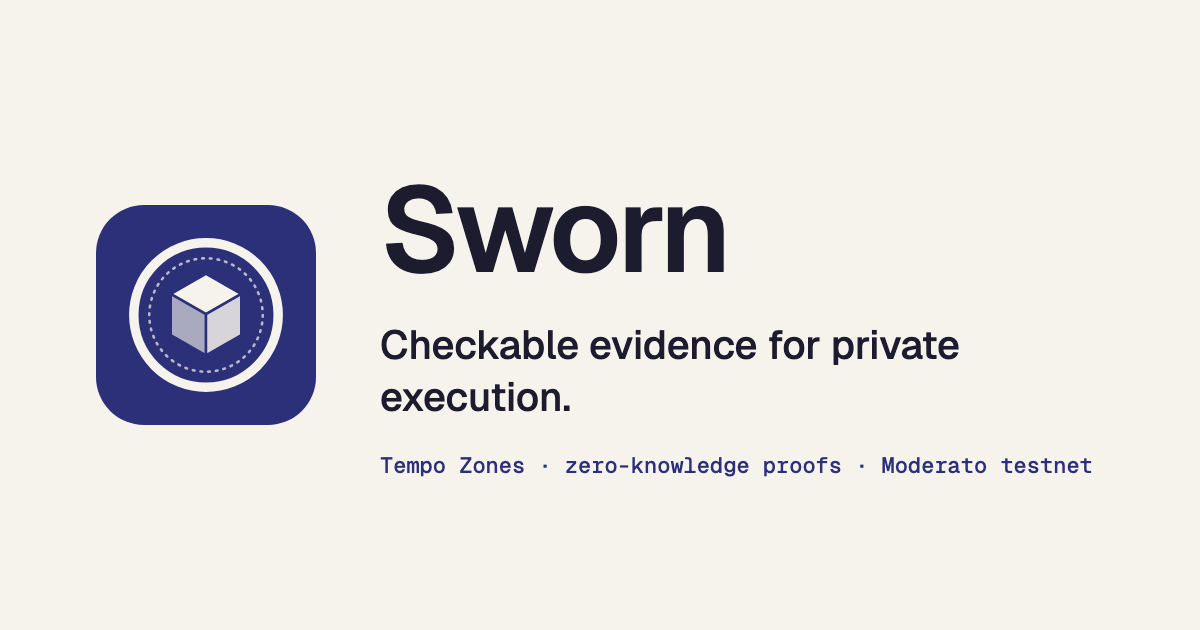
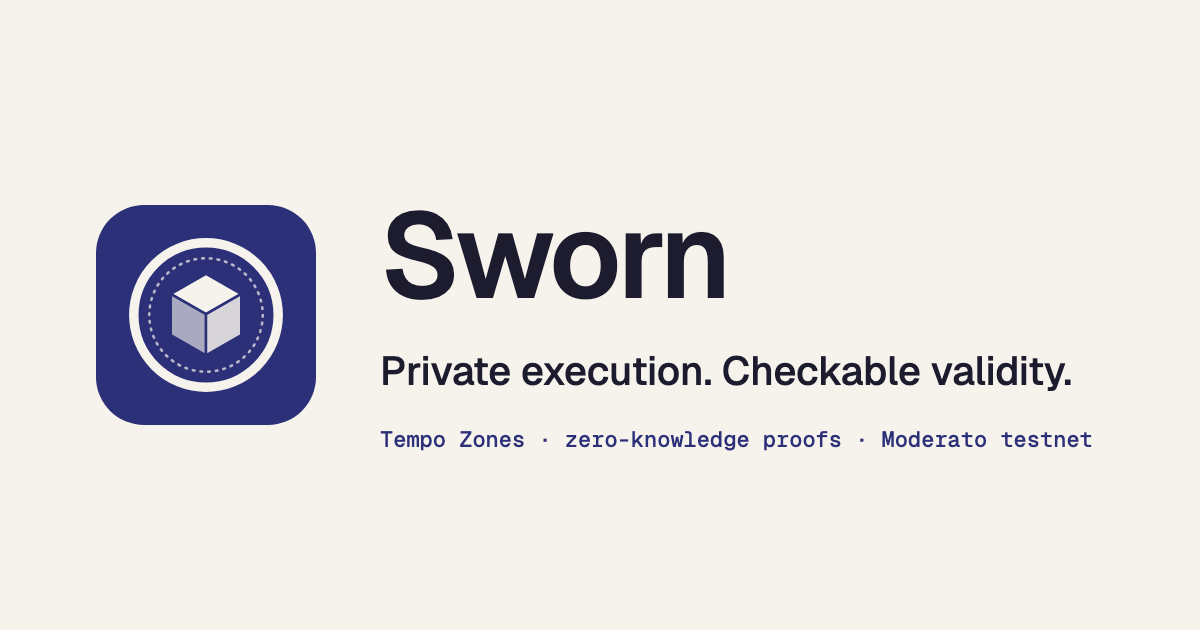
Full-review fixes: page leads with "Private execution. Checkable validity."; precise wording everywhere
Page: h1, title, og/twitter tags and the OG card use the message; the own-Zone
heading says the portal settles and so lets a withdrawal be paid; the fixture is
"verified on Moderato, not connected to a portal" (the attest was a transaction);
the stub comparison notes Tempo's Zones rely on a TEE; footer: exact prize names
and "no data-availability, liveness or censorship-resistance guarantee"; drops the
unexplained factory-admin line; removes unused slashing-era UI (Timeline,
ProofSection). README: "Sworn runs Tempo's own Zone verifier in SP1"; demo 1:22.
scripts/zone-attest.sh accepts a fixture path relative to where it is run. Spec 003:
claim template filled, "fixture batches". Interview: forged batch 10-07, Q8 buyer is
a Zone business, Q12 prizes, 11-31 min, Q20 narrower, Q25 pre-existing work.
Outreach: forged-batch link; users see their own.

diff --git a/site/src/ui/sections.tsx b/site/src/ui/sections.tsx
@@ -61,8 +61,8 @@ export function Hero() {
   return (
     <section className="hero">
       <div className="hero-copy">
-        <p className="eyebrow">Sworn · for Tempo Zones · Private execution, checkable validity</p>
-        <h1>Make private Zone execution checkable.</h1>
+        <p className="eyebrow">Sworn · for Tempo Zones</p>
+        <h1>Private execution. Checkable validity.</h1>
         <p className="lede">
           Tempo Zones are private ledgers: only the operator sees every transaction. Sworn turns an operator-supplied
           batch into evidence anyone can verify on chain—without the private ledger or customer transactions.
@@ -232,7 +232,7 @@ export function DataFlow() {
           Zcash proves a shielded transaction is valid; Sworn proves a Zone batch executed correctly. Sworn hides nothing
           from the Zone&apos;s operator, who still sees every transaction.</p>
         <p className="df-note">This diagram shows the fixture batch from Tempo&apos;s integration tests (dev chain 1337), verified
-          read-only on Moderato. The own-Zone run above is separate: its portal calls its own instance of the verifier before it
+          on Moderato by a standalone verifier, not connected to a portal. The own-Zone run above is separate: its portal calls its own instance of the verifier before it
           settles a batch, and our sequencer pays withdrawals afterwards. Tempo&apos;s own Zones are unchanged; spec 004 is a
           proposal.</p>
       </div>
@@ -259,8 +259,7 @@ export function OperationsTest() {
       <p className="note">
         <b>Market, honestly:</b> it grows with Zones × batches × upgrades, and only if Zones are adopted; no TAM is claimed.
         Later, Sworn could sit beside Tempo&apos;s TEE as an independent check (spec 004, a proposal).<br />
-        <b>What is true today:</b> the three Zones Tempo&apos;s factory created on Moderato share one admin; Sworn has no
-        customer, revenue, design partner or payer agreement. The commercial thesis becomes credible only after this repeat
+        <b>What is true today:</b> Sworn has no customer, revenue, design partner or payer agreement. The commercial thesis becomes credible only after this repeat
         test.
       </p>
     </section>
@@ -275,6 +274,7 @@ export function Footer() {
         <li>Unaudited</li>
         <li>Fixture batches from Tempo's integration tests (dev chain)</li>
         <li>Live settlement only on our own Zone (one operator), not Tempo's Zones</li>
+        <li>Proof gates settlement; no data-availability, liveness or censorship-resistance guarantee</li>
         <li>No customers, revenue or mainnet</li>
       </ul>
       <ul className="links">
@@ -315,8 +315,9 @@ export function Footer() {
       </ul>
       <p className="fine team">
         Built by Hiroyuki Saito (<a href="https://github.com/psyto" target="_blank" rel="noreferrer">@psyto</a>): Rust on
-        Tempo&apos;s stack (Reth, Revm); author of <a href="https://fabrknt.com/dojo" target="_blank" rel="noreferrer">Fabrknt Dojo</a> (21 courses); Uniswap Foundation sponsor prize, ETHGlobal Tokyo
-        2026; 3rd place, Superteam Japan × NTT DOCOMO R&amp;D side track, Colosseum Cypherpunk 2025; 15 years building banking
+        Tempo&apos;s stack (Reth, Revm); author of <a href="https://fabrknt.com/dojo" target="_blank" rel="noreferrer">Fabrknt Dojo</a> (21 courses); Uniswap Foundation sponsor prize (Best
+        Uniswap Stack Contribution, 3rd place), ETHGlobal Tokyo 2026; 3rd place, Superteam Japan × NTT DOCOMO R&amp;D side track,
+        Colosseum&apos;s Solana Cypherpunk Hackathon 2025; 15 years building banking
         systems in Japan.
       </p>
       <p className="fine">

diff --git a/site/src/ui/ProofDiagram.tsx b/site/src/ui/ProofDiagram.tsx
@@ -1,7 +1,3 @@
-import type { Loadable } from "../chain/loadable.ts";
-import type { ProofPins } from "../chain/timeline.ts";
-import { AddrLink, ErrorBox } from "./common.tsx";
-
 export interface PipeNode {
   title: string;
   sub: string[];
@@ -110,67 +106,5 @@ export function Pipeline(p: PipeProps) {
       <Wide {...p} />
       <Tall {...p} />
     </>
-  );
-}
-
-const SLASH_NODES: PipeNode[] = [
-  { title: "Tempo block N", sub: ["state + block hash", "MPT-verified"], tempo: true },
-  { title: "tempo-revm", sub: ["Tempo's own EVM", "re-runs the transfer"] },
-  { title: "SP1 zkVM", sub: ["proves that run", "RISC-V execution"] },
-  { title: "Groth16", sub: ["succinct proof", "made locally"] },
-  { title: "Sworn.sol", sub: ["on Tempo", "verifyProof → slash"], tempo: true },
-];
-
-export function ProofSection({ pins, onRetry }: { pins: Loadable<ProofPins>; onRetry: () => void }) {
-  return (
-    <section className="section" aria-labelledby="how">
-      <div className="section-head">
-        <p className="eyebrow">The engine</p>
-        <h2 id="how">How the slash proof is made</h2>
-        <p className="lede">
-          The same recipe as the Zone proof above, with Tempo's EVM in place of the Zone verifier: the challenger re-runs the
-          exact transfer with tempo-revm over state proven against block N's header, inside SP1, and Sworn.sol checks the
-          Groth16 proof against that block's hash on Tempo.
-        </p>
-      </div>
-      <figure className="figure">
-        <Pipeline
-          id="dg-slash"
-          nodes={SLASH_NODES}
-          label="Tempo block N, re-executed by tempo-revm inside the SP1 zkVM, wrapped as a Groth16 proof, verified by Sworn.sol on Tempo against block N's hash."
-          back={{ wide: "blockhash(N) == the question's block hash, checked on Tempo", tall: "blockhash(N) checked on Tempo" }}
-        />
-        <figcaption>
-          Heavy edges are on Tempo; the middle three run on the challenger's machine (the three Moderato proofs took about 7 to 9
-          minutes, per the run logs).
-        </figcaption>
-      </figure>
-      <div className="pins" aria-live="polite">
-        <p className="eyebrow">Pinned in Sworn.sol, read from chain</p>
-        {pins.status === "ok" ? (
-          <dl className="facts">
-            <dt>SP1_VERIFIER</dt>
-            <dd>
-              <AddrLink address={pins.value.verifier} label={pins.value.verifier} /> · {pins.value.verifierVersion}
-            </dd>
-            <dt>GUEST_VKEY</dt>
-            <dd className="mono">{pins.value.guestVkey}</dd>
-            <dt>GUEST_VERSION</dt>
-            <dd className="mono">
-              {pins.value.guestVersion}
-              {pins.value.guestVersionIsV1 && <span className="ok"> = keccak256("sworn-guest-v1") ✓</span>}
-            </dd>
-            <dt>MAX_AGE</dt>
-            <dd className="mono">{pins.value.maxAge.toString()} blocks (the answer must be about a block whose hash Tempo still serves)</dd>
-          </dl>
-        ) : pins.status === "error" ? (
-          <ErrorBox error={pins.error} onRetry={onRetry} />
-        ) : (
-          <p className="loading">
-            <span className="pulse" aria-hidden /> Reading the verifier and vkey from Sworn…
-          </p>
-        )}
-      </div>
-    </section>
   );
 }

diff --git a/site/src/ui/Zone.tsx b/site/src/ui/Zone.tsx
@@ -169,7 +169,7 @@ export function ZoneSection({ attest, also, check, onRetry, onVerify }: Props) {
         <div className="ops-crumb"><span>Proof evidence</span><span>Zone blocks 5–6</span><b>Read live from chain</b></div>
       <div className="section-head">
         <p className="eyebrow">Technical evidence</p>
-        <h2 id="zone-h">A fixture batch with a withdrawal (dev chain 1337), verified read-only on Moderato</h2>
+        <h2 id="zone-h">A fixture batch with a withdrawal (dev chain 1337), verified on Moderato</h2>
         <p className="lede">
           Tempo's own Zone batch verifier ran inside SP1 on a batch with {BATCH_CONTENTS.withdrawals} withdrawal and{" "}
           {BATCH_CONTENTS.userTransactions} user transactions, taken from Tempo's zones integration tests on a dev chain (1337),
@@ -253,7 +253,7 @@ export function ZoneSection({ attest, also, check, onRetry, onVerify }: Props) {
                         <a href={STUB_SRC} target="_blank" rel="noreferrer">
                           source
                         </a>
-                        ). Sworn demonstrates the missing ZK check.
+                        ). Tempo&apos;s Zone design relies on a TEE (Nitro) attestation instead; Sworn shows what an independent ZK check adds.
                       </>
                     ) : (
                       <>This call no longer returns true: Moderato's Zone verifier has changed since this page was written.</>
@@ -293,7 +293,7 @@ export function ZoneSection({ attest, also, check, onRetry, onVerify }: Props) {
             <li>Tempo Zones' own batch verifier, executed inside SP1.</li>
             <li>
               A fixture batch from Tempo&apos;s integration tests with {BATCH_CONTENTS.withdrawals} withdrawal and{" "}
-              {BATCH_CONTENTS.userTransactions} user transactions, proven, then verified read-only on Moderato by a standalone contract. It accepts the real proof and rejects a mutated input.
+              {BATCH_CONTENTS.userTransactions} user transactions, proven, then verified on Moderato by a standalone contract (not connected to a portal). It accepts the real proof and rejects a mutated input.
             </li>
             <li>A digest bound to the same batch fields Tempo&apos;s TEE (Nitro) attestation commits, plus the destination chain and the exact genesis artifact.</li>
             <li>

diff --git a/site/index.html b/site/index.html
@@ -5,9 +5,12 @@
     <meta name="viewport" content="width=device-width, initial-scale=1.0" />
     <meta name="color-scheme" content="light dark" />
     <meta name="description" content="Sworn is for Tempo Zones: only the operator sees every transaction. Sworn makes that private execution checkable on chain, without exposing customer transactions." />
-    <title>Sworn — make private Tempo Zone execution checkable</title>
+    <title>Sworn — private execution, checkable validity</title>
     <link rel="icon" type="image/svg+xml" href="./favicon.svg" />
-    <meta property="og:title" content="Sworn — make private Tempo Zone execution checkable" />
+    <meta property="og:title" content="Sworn — private execution, checkable validity" />
+    <meta property="og:description" content="Sworn is for Tempo Zones: Tempo's own Zone verifier, run in SP1, proves a private batch executed correctly — checkable on chain without publishing transactions." />
+    <meta name="twitter:title" content="Sworn — private execution, checkable validity" />
+    <meta name="twitter:image" content="https://psyto.github.io/sworn/card.png" />
     <meta property="og:image" content="https://psyto.github.io/sworn/card.png" />
     <meta property="og:url" content="https://psyto.github.io/sworn/" />
     <meta name="twitter:card" content="summary_large_image" />

diff --git a/site/src/ui/OwnZone.tsx b/site/src/ui/OwnZone.tsx
@@ -25,7 +25,7 @@ export function OwnZoneSection({ ownZone, check, onRetry, onVerify }: Props) {
     <section className="section" id="own-zone" aria-labelledby="own-zone-h">
       <div className="section-head">
         <p className="eyebrow">Our own Zone on Moderato · {OWN_ZONE.date}</p>
-        <h2 id="own-zone-h">A portal that pays a withdrawal only after Sworn's proof passes</h2>
+        <h2 id="own-zone-h">A portal that settles a batch, and so lets a withdrawal be paid, only after Sworn's proof passes</h2>
         <p className="lede">
           We ran our own Zone (zone {OWN_ZONE.zoneId}) on Moderato. Its portal calls <code>SwornZoneVerifier</code> in every{" "}
           <code>submitBatch</code>, so a batch settles, and its withdrawals can be paid, only after the Groth16 proof verifies.

diff --git a/_submission/brand/card.html b/_submission/brand/card.html
@@ -8,5 +8,5 @@ h1{font-size:120px;font-weight:600;margin:0;letter-spacing:-3px}
 p{font-size:40px;margin:12px 0 28px;font-weight:500}
 small{font-family:"Geist Mono",monospace;font-size:22px;color:#2b3078}
 </style></head><body>
-<div class="card"><img src="mark.svg"><div><h1>Sworn</h1><p>Checkable evidence for private execution.</p><small>Tempo Zones · zero-knowledge proofs · Moderato testnet</small></div></div>
+<div class="card"><img src="mark.svg"><div><h1>Sworn</h1><p>Private execution. Checkable validity.</p><small>Tempo Zones · zero-knowledge proofs · Moderato testnet</small></div></div>
 </body></html>

diff --git a/_submission/INTERVIEW.md b/_submission/INTERVIEW.md
@@ -39,7 +39,7 @@ can't get a Tempo-run Zone's batch: only the operator holds the witness.
 On our own Zone, yes in the narrow sense: its portal settles a batch, and queues its withdrawals, only after the
 proof verifies. The proof is a necessary condition, not a guarantee: our sequencer then calls `processWithdrawals`,
 and could also withhold it. We also showed the rejection side: our own sequencer, with a valid signature, submitted a
-forged batch replaying a real proof, and it reverted on the proof (tx `0x3a15…167d`, state unchanged). We ran that on Moderato on 2026-10-06. On Tempo's Zones, no: their verifier is fixed by Tempo's
+forged batch replaying a real proof, and it reverted on the proof (tx `0x3a15…167d`, state unchanged). We ran that on Moderato on 2026-10-07. On Tempo's Zones, no: their verifier is fixed by Tempo's
 factory, so it stays evidence there. Spec 004 is the design for Tempo's side.
 - *If pressed:* one operator, whose key also decrypts deposits; withdrawals wait for the proof but are not
   censorship-resistant (the operator must prove and process them); callback withdrawals bounce.
@@ -67,8 +67,9 @@ the portal recorded); spec 004 would make it automatic there.
 - Not validated: no customer, no price agreed.
 
 **8. There is one Zone operator on Moderato. Where is the market?**
-There is no demonstrated market today, and we say that. The immediate buyer hypothesis is either a Zone team
-with a reviewer requirement or Tempo itself (proofs in settlement, spec 004). A design-partner conversation is the
+There is no demonstrated market today, and we say that. The immediate buyer hypothesis is a Zone business
+whose reviewer cannot reconstruct the private witness. Tempo itself (an independent check beside its TEE, spec 004)
+is a later proposal, not the first buyer. A design-partner conversation is the
 next falsifiable test.
 
 **9. Tempo chose a TEE (Nitro). Why would anyone need ZK?**
@@ -94,7 +95,9 @@ next falsifiable test.
 
 **12. Why you?**
 - Tempo is built on Reth and Revm. I work on that stack and teach it (Fabrknt Dojo, fabrknt.com/dojo: 21 source-grounded courses on Rust, Reth, Revm and Alloy).
-- My last project took a Uniswap Foundation prize at ETHGlobal Tokyo.
+- My last project, Reckn, took a Uniswap Foundation sponsor prize (Best Uniswap Stack Contribution, 3rd place) at
+  ETHGlobal Tokyo 2026; I also placed 3rd in the Superteam Japan × NTT DOCOMO R&D side track of Colosseum's Solana
+  Cypherpunk Hackathon (2025). Fabrknt Dojo has 21 courses and 234 lessons.
 - Fifteen years building banking systems: I know what auditors ask an operator for.
 
 **13. Solo founder. Can you run an operations business?**
@@ -141,7 +144,7 @@ Introductions to teams building Zones or private payment ledgers on Tempo, and t
 - For Tempo's Zones, the evidence product is off the settlement path, so its speed never delays their settlement.
   It only sets when the evidence reaches the auditor.
 - On our own Zone, the proof *is* on the path, and it does delay settlement: in the live run each batch waited
-  11–32 minutes for its proof (payout 58.5 minutes after the anchor). That is why the Zone was stopped after
+  11–31 minutes for its proof (payout 58.5 minutes after the anchor). That is why the Zone was stopped after
   the demo: this prover cannot keep up with a continuously running Zone.
 - In the settlement design (spec 004), the TEE settles at once and ZK only gates the payout of withdrawals.
   Deposits and Zone execution never wait for it.
@@ -154,7 +157,7 @@ Introductions to teams building Zones or private payment ledgers on Tempo, and t
 - Zcash proves each shielded transaction is valid and hides it from everyone. Sworn proves a Zone batch was
   executed correctly by Tempo's own Zone code; it shields nothing from the operator, who still sees every
   transaction. Zones are private from the public, not from their sequencers.
-- So: Zcash-style verifiability for an operator-run private ledger, not Zcash-level privacy.
+- So the shared part is only "verify without revealing"; Sworn is not Zcash-level privacy.
 
 **21. How is a Zone different from Solana's Contra or a Lightning channel?**
 - Contra is the closer analogy: operator-run private execution backed by public escrow (Contra holds SPL tokens
@@ -178,6 +181,12 @@ Introductions to teams building Zones or private payment ledgers on Tempo, and t
 **24. "Only the operator sees every transaction": isn't it the sequencers?**
 - Yes: a Zone is run by its operator's sequencer set (a leader and followers). "The operator" in the pitch means
   that set. Account holders see only their own activity (RPC-level authentication); the public sees none.
+
+**25. What existed before the hackathon?**
+- The repo started inside the window (2026-10-03). It vendors Succinct's SP1 verifier contracts (v6.1.0,
+  unmodified) and fetches and patches Tempo and Tempo Zones at pinned commits; none of that is my code.
+- The design discipline (no owner, no admin, a build check that fails if one appears) comes from my earlier
+  project Reckn; no Reckn code is used. All of this is in the README and should be in the form's disclosure.
 
 ## Numbers to have ready
 

diff --git a/video/README.md b/video/README.md
@@ -1,6 +1,6 @@
 # CWF videos — pitch (≤ 2 min) and demo (≤ 3 min)
 
-The submission videos are **Pitch D** (`PITCH-D.md`, ≤ 2:00 after the voice edit; the silent cut is 123 s) and **Demo D** (`DEMO-D.md`, 1:34). The scripts are
+The submission videos are **Pitch D** (`PITCH-D.md`, ≤ 2:00 after the voice edit; the silent cut is 123 s) and **Demo D** (`DEMO-D.md`, 1:22 narrated; the silent cut is 94 s). The scripts are
 the only source of narration; each ends with a claims → source table, and every figure on screen is **read at
 record time** (missing or changed source → the recorder throws). Silent 1920×1080 output, scene lengths =
 words ÷ 2.2 words/s rounded up to 0.5 s. Look: `slides.css`, Geist / Geist Mono (the recorder refuses a
@@ -23,7 +23,7 @@ deployments against Moderato (bytecode, every receipt, the 0.5 pathUSD payout, t
 README statements it relies on, Tempo's `Cargo.toml`, Fabrknt Dojo, the ETHGlobal showcase and Superteam's winner
 record.
 
-**Demo D** (nine scenes, 94 s) keeps the two results apart: a real local proof job for Tempo's
+**Demo D** (nine scenes, 94 s silent; 1:22 narrated) keeps the two results apart: a real local proof job for Tempo's
 integration-test fixture (dev chain 1337, nothing sent; a labelled cut from its start to its verified result),
 what stays private, the fixture attest on Tempo's explorer and a live re-verify (true / `InvalidProof()`), then
 a separate-run card, our own Zone's settlement and payout, the forged batch's failed trace, and the reproduction

diff --git a/docs/specs/003-zone-verifier.md b/docs/specs/003-zone-verifier.md
@@ -153,7 +153,7 @@ A native host computes the same public values with the same Rust code (shared mo
 ## 7. What may be claimed afterwards (and what may not)
 
 - **May:** "Tempo's own Zone batch verifier runs inside a zero-knowledge VM, and a contract on Tempo's
-  Moderato testnet verified that proof against the `IVerifier` inputs (tx …)."
+  Moderato testnet verified that proof against the `IVerifier` inputs (tx `0xa630…f770`)."
 - **May (after the own-Zone live run, 2026-10-06/07):** "On our own Zone on Moderato (one operator, not a
   Tempo-created Zone), the portal settled three batches only after this verifier accepted their proofs; our
   sequencer then paid a withdrawal; a forged sequencer-signed batch was rejected on the proof." The proof is a
@@ -161,7 +161,7 @@ A native host computes the same public values with the same Rust code (shared mo
 - **May not:**
   - that a Tempo-created Zone settles with it;
   - that it secures withdrawals on Tempo's Zones;
-  - that the batch came from Moderato (it came from Tempo's zones integration tests on a dev chain);
+  - that the fixture batches came from Moderato (they came from Tempo's zones integration tests on a dev chain);
   - that it is production-ready or audited;
   - that the pinned genesis is Tempo's authentic Zone spec (it is the artifact from Tempo's integration test);
   - anything about cross-chain or settlement security (D2/D4).

diff --git a/README.md b/README.md
@@ -1,7 +1,7 @@
 # Sworn
 
 **Private execution. Checkable validity.** Sworn is for Tempo Zones: private ledgers where only the operator sees every
-transaction. Tempo's own Zone verifier runs in SP1, producing a proof plus public batch data that anyone can verify
+transaction. Sworn runs Tempo's own Zone verifier in SP1, producing a proof plus public batch data that anyone can verify
 on chain without publishing transactions.
 
 **Like Zcash? Only in one way.** Zcash uses zero knowledge to prove a shielded transaction is valid without
@@ -59,7 +59,7 @@ but it is not the product pitched or demoed for CWF:
 > "Re-verify on chain" in the page's fixture section (three live `eth_call`s: Sworn, the real proof → true; one field changed →
 > `InvalidProof`; for comparison, Moderato's current prototype verifier, the pre-T13 reference stub, returns
 > true for an equivalent malformed batch) ·
-> pitch (≤ 2:00) and demo (1:34) videos: *links added once the founder narration is uploaded*.
+> pitch (≤ 2:00) and demo (1:22) videos: *links added once the founder narration is uploaded*.
 >
 > **Status (2026-10-07): built for Colosseum's Crypto World's Fair, Tempo track.** Tempo **Moderato
 > testnet** only. Unaudited. No customers or revenue. The Zones created by Tempo's factory on Moderato have one

diff --git a/_submission/OUTREACH.md b/_submission/OUTREACH.md
@@ -34,6 +34,7 @@ exactly the inputs IVerifier.verify receives. Two results on Moderato, all read-
    proven batches; our sequencer paid the withdrawal only after the last proof passed, and a forged,
    sequencer-signed batch replaying a real proof was rejected on the proof:
    https://explore.testnet.tempo.xyz/tx/0xfc3118412ed0c4d6a5b0a55e61a567b280861461551f927fc5fc650c541be1f1
+   https://explore.testnet.tempo.xyz/tx/0x3a154e4e0b9dde8531a151ff39d6991af76b264d292eab2b8b0b0b31717b167d
 
 Repo: https://github.com/psyto/sworn (spec 003 = the verifier, spec 004 = a TEE + ZK proposal).
 
@@ -94,7 +95,7 @@ Hi <name>,
 
 A short question about evidence, not a sales request.
 
-Tempo "Zones" are private ledgers: only the operator sees the transactions. I built a tool that turns one
+Tempo "Zones" are private ledgers: users see only their own transactions, and only the operator sees them all. I built a tool that turns one
 operator-supplied batch into a zero-knowledge proof that Tempo's own Zone code accepts exactly that batch. Anyone
 can verify the proof on chain; it reveals hashes and batch metadata, not transactions or balances.
 
